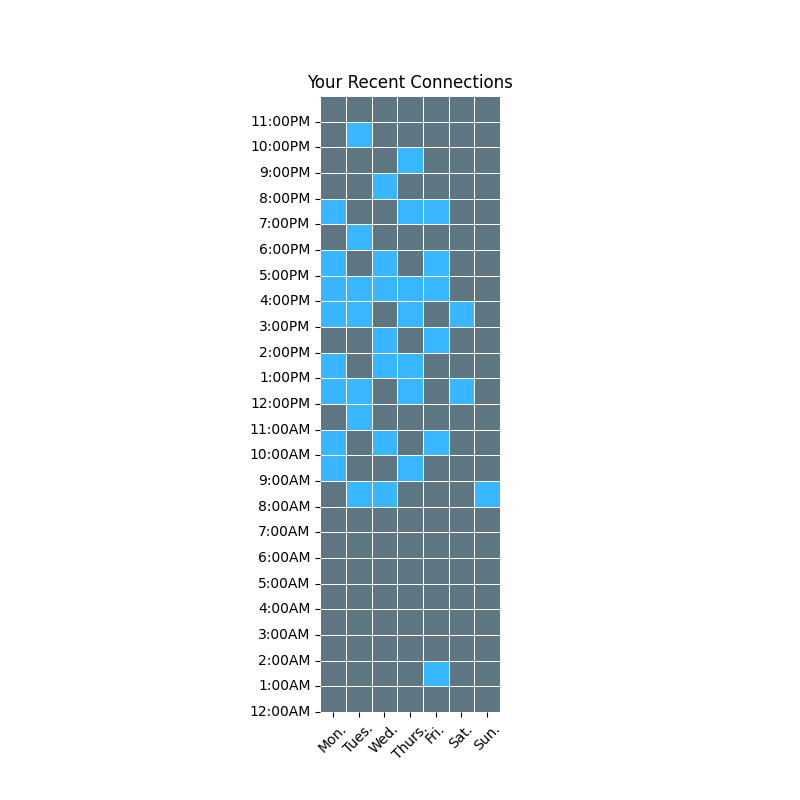
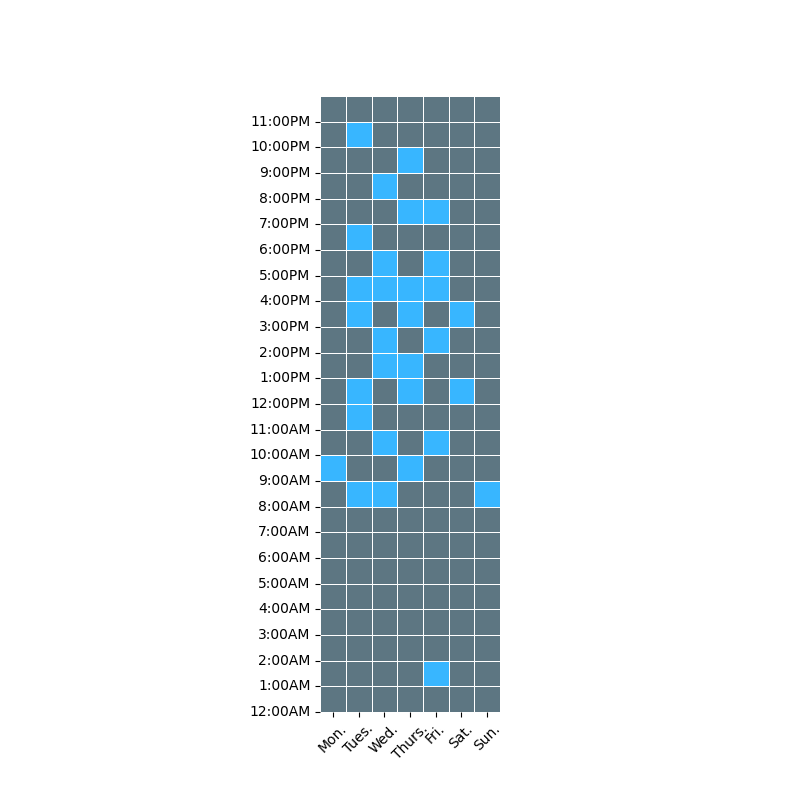
Updated connection page with mild CSS. Also, made minor changes to Student and Teacher CSS

diff --git a/DigitalBackpack/static/css/student_connectivity.css b/DigitalBackpack/static/css/student_connectivity.css
@@ -1,18 +1,40 @@
 .heatmap_box {
 	display: flex;
 	justify-content: center;
-	width: 50vw;
-   height: 45vw;
+	width: 40vw;
+   height: 40vw;
    border: 5px solid #000000;
    background-color: #e6e6e6;
+	position: relative;
 
-	position: absolute;
+	transform: translate(-50%, -50%);
+	padding: 8px;
 	left: 50%;
 	top: 50%;
-	transform: translate(-50%, -50%);
-	padding: 20px;
 }
 
-#heatmap {
+.header {
+  width: 100vw;
+  height: 5.3vw;
+  background-color: #333333;
+  margin: 0px;
+  padding: 0px;
+}
 
+.headBox {
+  width: 14vw;
+  height: 4vw;
+  border: 5px solid #000000;
+  background-color: #e6e6e6;
+  vertical-align: middle;
+  text-align: center;
+}
+
+.mainBody {
+  text-align: center;
+  width: 100vw;
+  height: 100vh;
+  background-color: #336699;
+  margin: 0px;
+  padding: 0px;
 }

diff --git a/DigitalBackpack/templates/DigitalBackpack/student_connectivity.html b/DigitalBackpack/templates/DigitalBackpack/student_connectivity.html
@@ -12,8 +12,18 @@
   </head>
 
   <body>
-	  <div class="heatmap_box">
-		  <img id="heatmap" src="{% static 'img/heatmap_timeframe.png' %}" alt="Heatmap">
+	  <div class="header">
+       <div class="headBox">
+         <h1>Digital Backpack</h1>
+       </div>
+     </div>
+
+	  <div class="mainBody">
+
+		  <div class="heatmap_box">
+			  <img id="heatmap" src="{% static 'img/heatmap_timeframe.png' %}" alt="Heatmap">
+		  </div>
+
 	  </div>
   </body>
 </html>

diff --git a/DigitalBackpack/templates/DigitalBackpack/StudentWebpage.html b/DigitalBackpack/templates/DigitalBackpack/StudentWebpage.html
@@ -24,7 +24,9 @@
       </div>
 
       <a href="connectivity/">
-        <button type="button" class="onlineConnect">View My Online Connectivity</button>
+        		<button type="button" class="onlineConnect">
+					<h3>View My Online Connectivity</h3>
+				</button>
       </a>
 
       <div id="assignments">

diff --git a/DigitalBackpack/static/css/teacherWeb.css b/DigitalBackpack/static/css/teacherWeb.css
@@ -28,6 +28,7 @@ button {
   border: 5px solid #000000;
   background-color: #e6e6e6;
   vertical-align: middle;
+  text-align: center;
 }
 
 .mainBody {

diff --git a/DigitalBackpack/static/css/studentWeb.css b/DigitalBackpack/static/css/studentWeb.css
@@ -19,6 +19,7 @@ h1 {
   border: 5px solid #000000;
   background-color: #e6e6e6;
   vertical-align: middle;
+  text-align: center;
 }
 
 .mainBody {

diff --git a/DigitalBackpack/views.py b/DigitalBackpack/views.py
@@ -20,7 +20,7 @@ def connection_page(request):
 
     # Sets up general heatmap attributes including size, title, and x and y axes
     plt.figure(figsize=(8, 8))
-    plt.title("Your Recent Connections")
+    # plt.title("Your Recent Connections")
     plt.xlabel("Days of the week", size=15)
     plt.ylabel("Time of day", size=15)
 
@@ -39,7 +39,6 @@ def connection_page(request):
     # ----------------- Getting heatmap to browser ----------------- #
 
     # plt.savefig - Saves the figure as specified format for later usage
-    # complete_file = "DigitalBackpack/templates/DigitalBackpack/heatmap_timeframe.png"
     complete_file = "DigitalBackpack/static/img/heatmap_timeframe.png"
     plt.savefig(complete_file, format='png')
 
